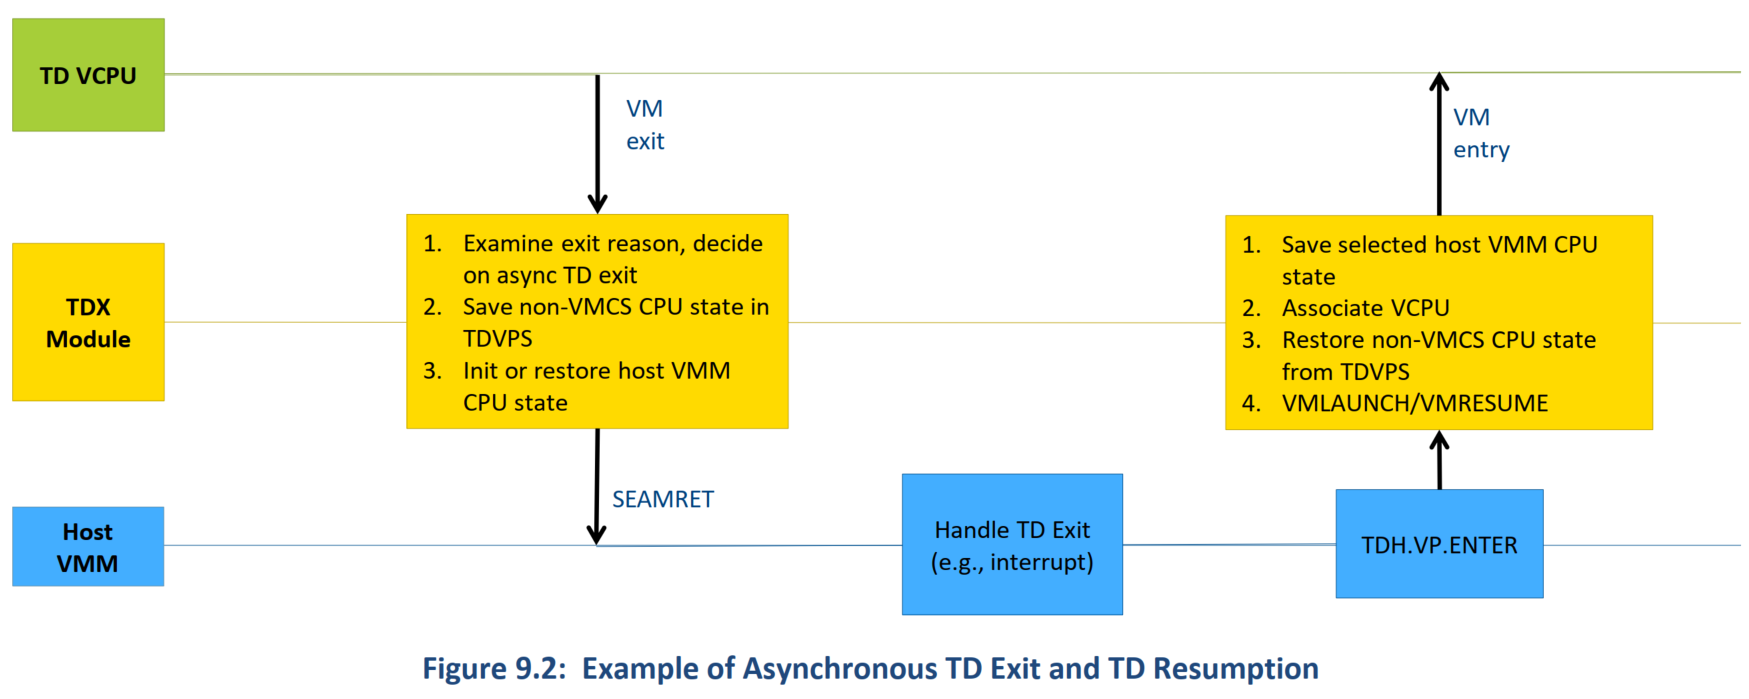
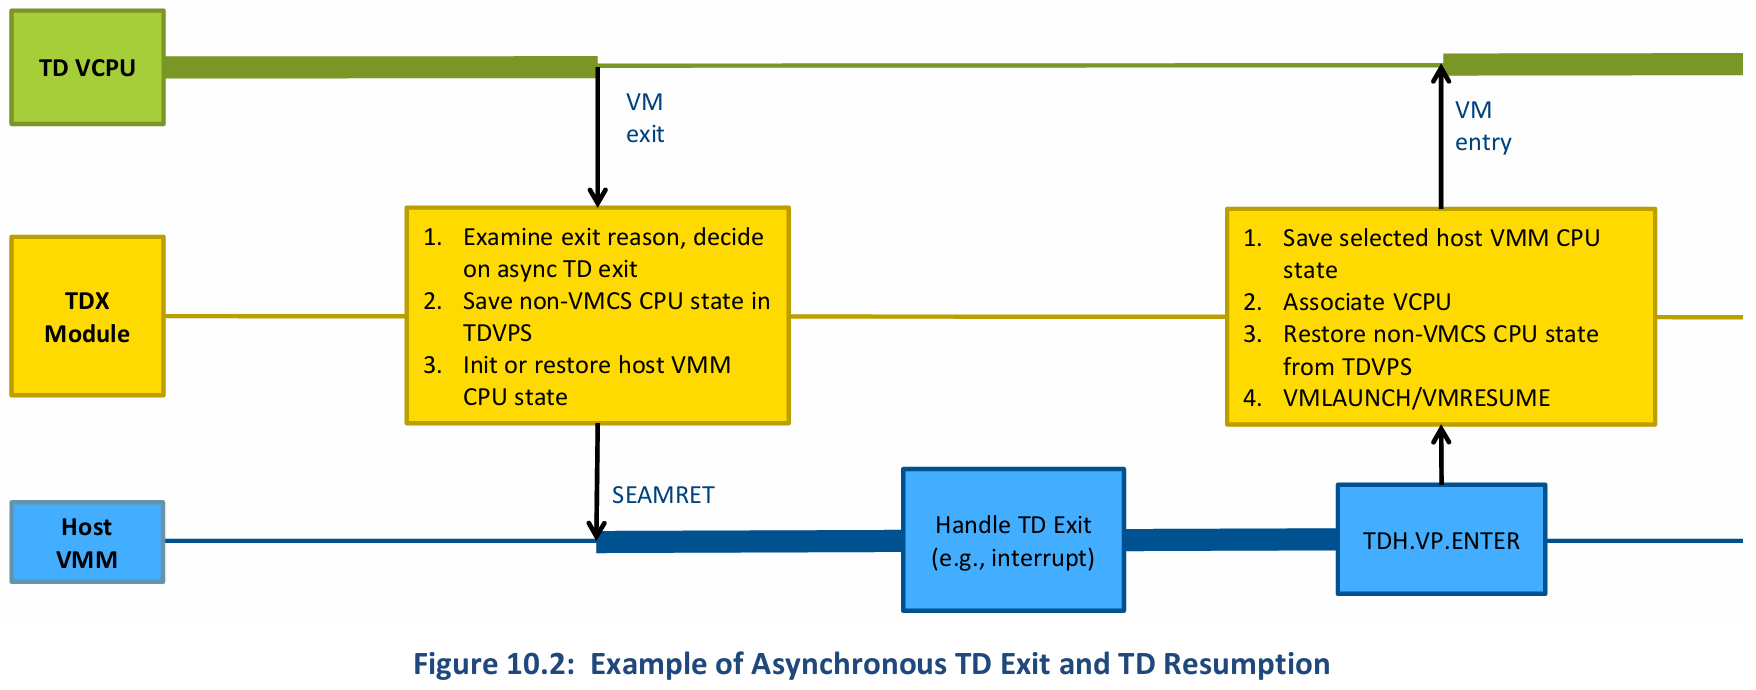
sev, tdx: minor updates and some images

diff --git a/arch/amd/sev/sev-es.md b/arch/amd/sev/sev-es.md
@@ -80,7 +80,7 @@
   * 相反，当 NAE 事件发生时，系统会生成一个新的异常 —— `#VC`（**虚拟化通信异常，VMM Communication Exception**），该异常必须由 guest VM 自行处理。
 * **译注**
   * TDX 里的 *同步 TD Exit（Synchronous TD Exit）*  和 SEV-ES 的 NAE 类似，需要模拟的事件引发的 VMEXIT 会以 `#VE` 的方式弹射回 TDVM，`#VE` 的处理函数需要将模拟请求以 `TDG.VP.VMCALL` 的方式引发 TD Exit，让 hypervisor 来模拟。
-  * TDX 里的 *异步 TD Exit（Asynchronous TD Exit）* 则与 SEV-ES 的 AE 类似，由 TDX module 来负责保存/恢复所有的状态。
+  * TDX 里的 *异步 TD Exit（Asynchronous TD Exit）* 则与 SEV-ES 的 AE 类似，由中断、EPT Violation 事件引起的，此类退出由 TDX module 来负责保存/恢复所有的状态。
 
 ### VMM Communication 异常（`#VC`）
 
@@ -89,7 +89,7 @@
 * 为便于实现这一通信过程，SEV-ES 架构定义了 “**客户机 - 监控程序通信块（GHCB，Guest Hypervisor Communication Block）**”。
   * **GHCB 位于一块共享内存页中**，因此 guest VM 和 hypervisor 均可访问。
   * SEV-ES 架构未明确规定 GHCB 的具体结构，但建议其镜像 VMCB 的保存区设计，以便 guest 与 hypervisor 便捷地传递状态信息。
-* **译注**：TD guest 通过 tdcall<`TDG.VP.VEINFO.GET`> 获取 VE info 结构的信息，通过 tdcall<`TDG.VP.VMCALL`> 的 GHCI 规范，通过寄存器将信息传递给 VMM
+* **译注**：TD guest 通过 tdcall<`TDG.VP.VEINFO.GET`> 获取 VE info 结构的信息，然后根据 GHCI 规范的 tdcall<`TDG.VP.VMCALL`> ，通过约定的寄存器将信息传递给 VMM
   * 此时，用 TDX hypercall Leaf ID `.r10 = TDX_HYPERCALL_STANDARD = 0`，`.r11 = hcall_func(EXIT_REASON_CPUID)` 传递退出原因
   * 类似 `TDVMCALL_MAP_GPA`、`TDVMCALL_GET_QUOTE` 用的是其他的 TDX hypercall Leaf ID
 * 不同事件需要 guest 与 hypervisor 之间传递不同的状态数据。因此，`#VC` 处理程序必须在运行时判断应向 hypervisor 暴露哪些 guest 状态信息。

diff --git a/arch/amd/sev/sev-snp.md b/arch/amd/sev/sev-snp.md
@@ -156,7 +156,7 @@ Page-level 侧信道<br/>*攻击示例：通过页表跟踪 VM 访问模式*    
   * 内存访问会受到严格控制，仅该页面的所有者有权对其执行写入操作。
   * RMP 会与标准 x86 页表配合使用，共同强制实施内存限制与页面访问权限。
 * RMP 以 **系统物理地址（System Physical Address）** 作为索引，==在 CPU 和 IOMMU（输入输出内存管理单元）的 **页表遍历（table-walk）结束后** 进行检查==。
-  * 例如，在原生（非虚拟化，non-VM）模式下，虚拟地址会通过标准 x86 页表转换为物理地址；
+* 例如，在原生（非虚拟化，non-VM）模式下，虚拟地址会通过标准 x86 页表转换为物理地址；
   * 转换完成后，最终得到的物理地址将用于索引 RMP，读取并检查对应的 RMP 表项
   * 若 RMP 表项显示该页面为 hypervisor 所有，则检查通过，并创建新的 TLB 表项；
   * 若 RMP 表项显示该页面非 hypervisor 所有，则页表遍历会触发页错误（`#PF`，Page Fault），对应的内存访问请求被拒绝。